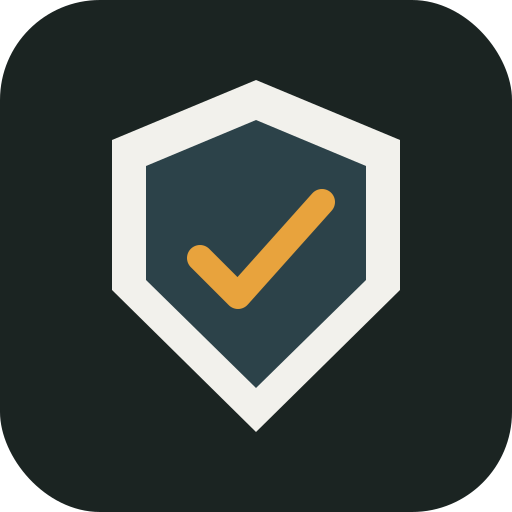
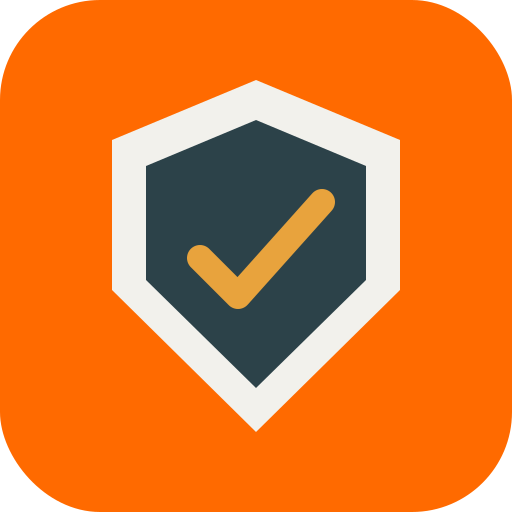
Add files via upload
favicon colour change

diff --git a/about.html b/about.html
@@ -19,7 +19,7 @@
   <div class="inner">
     <a href="index.html" class="logo">
       <svg width="28" height="28" viewBox="0 0 512 512" aria-hidden="true">
-        <rect width="512" height="512" rx="100" fill="#1b2422"/>
+        <rect width="512" height="512" rx="100" fill="#ff6a00"/>
         <polygon points="256,80 400,140 400,290 256,432 112,290 112,140" fill="#f2f1ec"/>
         <polygon points="256,120 366,166 366,280 256,388 146,280 146,166" fill="#2c4249"/>
         <path d="M200 258 L238 296 L322 202" stroke="#e8a33d" stroke-width="26" fill="none" stroke-linecap="round" stroke-linejoin="round"/>

diff --git a/contact.html b/contact.html
@@ -19,7 +19,7 @@
   <div class="inner">
     <a href="index.html" class="logo">
       <svg width="28" height="28" viewBox="0 0 512 512" aria-hidden="true">
-        <rect width="512" height="512" rx="100" fill="#1b2422"/>
+        <rect width="512" height="512" rx="100" fill="#ff6a00"/>
         <polygon points="256,80 400,140 400,290 256,432 112,290 112,140" fill="#f2f1ec"/>
         <polygon points="256,120 366,166 366,280 256,388 146,280 146,166" fill="#2c4249"/>
         <path d="M200 258 L238 296 L322 202" stroke="#e8a33d" stroke-width="26" fill="none" stroke-linecap="round" stroke-linejoin="round"/>

diff --git a/index.html b/index.html
@@ -99,7 +99,7 @@
   <div class="inner">
     <a href="index.html" class="logo">
       <svg width="28" height="28" viewBox="0 0 512 512" aria-hidden="true">
-        <rect width="512" height="512" rx="100" fill="#1b2422"/>
+        <rect width="512" height="512" rx="100" fill="#ff6a00"/>
         <polygon points="256,80 400,140 400,290 256,432 112,290 112,140" fill="#f2f1ec"/>
         <polygon points="256,120 366,166 366,280 256,388 146,280 146,166" fill="#2c4249"/>
         <path d="M200 258 L238 296 L322 202" stroke="#e8a33d" stroke-width="26" fill="none" stroke-linecap="round" stroke-linejoin="round"/>

diff --git a/privacy.html b/privacy.html
@@ -19,7 +19,7 @@
   <div class="inner">
     <a href="index.html" class="logo">
       <svg width="28" height="28" viewBox="0 0 512 512" aria-hidden="true">
-        <rect width="512" height="512" rx="100" fill="#1b2422"/>
+        <rect width="512" height="512" rx="100" fill="#ff6a00"/>
         <polygon points="256,80 400,140 400,290 256,432 112,290 112,140" fill="#f2f1ec"/>
         <polygon points="256,120 366,166 366,280 256,388 146,280 146,166" fill="#2c4249"/>
         <path d="M200 258 L238 296 L322 202" stroke="#e8a33d" stroke-width="26" fill="none" stroke-linecap="round" stroke-linejoin="round"/>

diff --git a/terms.html b/terms.html
@@ -19,7 +19,7 @@
   <div class="inner">
     <a href="index.html" class="logo">
       <svg width="28" height="28" viewBox="0 0 512 512" aria-hidden="true">
-        <rect width="512" height="512" rx="100" fill="#1b2422"/>
+        <rect width="512" height="512" rx="100" fill="#ff6a00"/>
         <polygon points="256,80 400,140 400,290 256,432 112,290 112,140" fill="#f2f1ec"/>
         <polygon points="256,120 366,166 366,280 256,388 146,280 146,166" fill="#2c4249"/>
         <path d="M200 258 L238 296 L322 202" stroke="#e8a33d" stroke-width="26" fill="none" stroke-linecap="round" stroke-linejoin="round"/>
